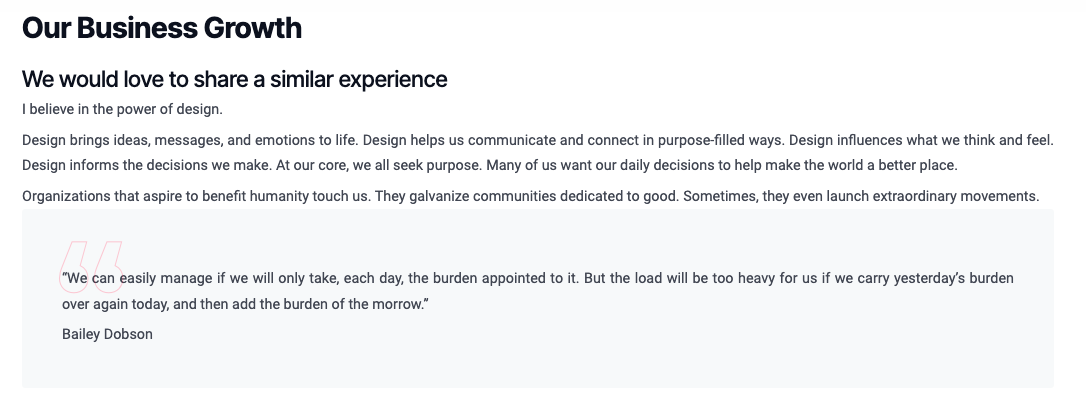
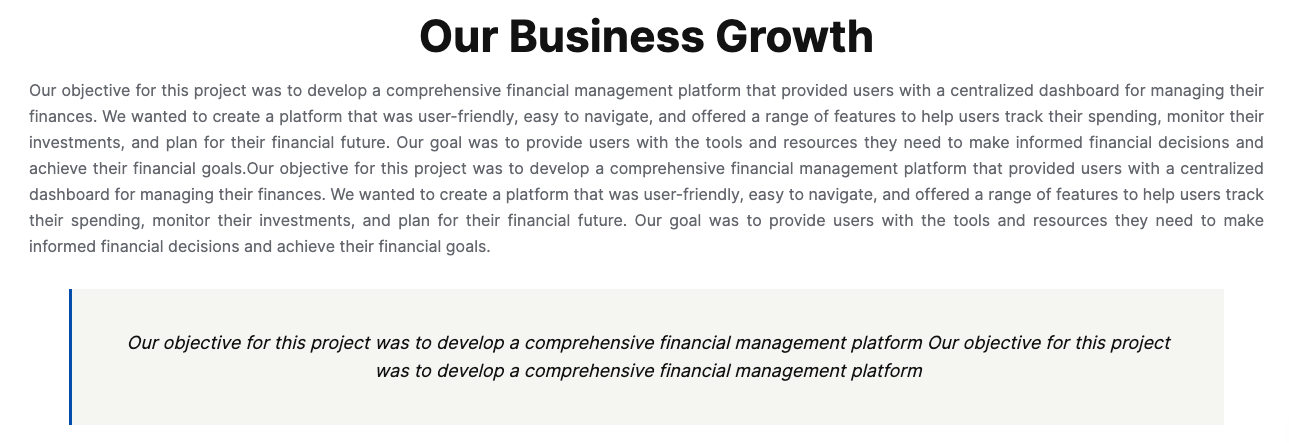
6 dynamic pages updates

diff --git a/public/assets/frontend/css/style.css b/public/assets/frontend/css/style.css
@@ -7256,6 +7256,7 @@ Reduce font and spacing: Start
   .mt-100 {
     margin-top: 60px;
   }
+
   .pt-100 {
     padding-top: 60px;
   }
@@ -7457,4 +7458,60 @@ Reduce font and spacing: End
     top: 1px;
     right: 1px;
     width: 20px;
+}
+
+.custom-description blockquote{
+    margin-top: 30px;
+    font-style: italic;
+    font-size: 18px;
+    font-weight: 400;
+    line-height: 28px;
+    color: #121212;
+    text-align: center;
+    background: var(--surface);
+    padding: 40px;
+    position: relative;
+    z-index: 1;
+    border-left: 3px solid var(--blue);
+}
+
+.custom-description ul,.custom-description ol {
+    margin-top: 30px;
+    padding-left: 0px;
+}
+
+.custom-description ul li, .custom-description ol li{
+    display: flex;
+    align-items: center;
+    gap: 10px;
+    color: var(--secondary);
+    margin-bottom: 8px;
+    font-size: 16px;
+}
+
+.custom-description ul li:before, .custom-description ol li:before{
+    width: 25px;
+    height: 25px;
+    font-size: 14px;
+    border: 1px solid var(--blue);
+    display: inline-flex;
+    align-items: center;
+    justify-content: center;
+    box-shadow: var(--blue);
+    background: var(--blue);
+    border-radius: 50%;
+    color: var(--white);
+    font-family: "Phosphor-Bold" !important;
+    font-weight: 300;
+
+}
+.custom-description ol li:before{
+    content: "\ea00";
+}
+.custom-description ul li:before{
+    content: "\ea30";
+}
+
+.mt-30 {
+    margin-top: 30px;
 }

diff --git a/public/assets/frontend/icons/style.css b/public/assets/frontend/icons/style.css
@@ -74,6 +74,10 @@
   content: "\e90a";
   color: #2868d8;
 }
+.icon-hand-protect-white:before {
+  content: "\e90a";
+  color: #fff;
+}
 .icon-coin-virus:before {
   content: "\e90b";
   color: #2868d8;
@@ -179,6 +183,10 @@
 }
 .icon-wallet:before {
   content: "\e924";
+  color: #2868d8;
+}
+.icon-target:before {
+  content: "\e925";
   color: #2868d8;
 }
 .icon-target:before {

diff --git a/resources/views/frontend/page/includes/flash_card.blade.php b/resources/views/frontend/page/includes/flash_card.blade.php
@@ -1,29 +1,40 @@
-<section class="services-page" style="background-color: #fff;padding: 45px 0 90px;">
+
+<div class="service-block style-about-two pt-60 pb-60 bg-surface style-three">
     <div class="container">
-        <div class="section-title-three text-left">
-            <div class="section-title__tagline-box">
-                <p class="section-title__tagline">{{ $element->first()->subtitle ?? '' }}</p>
-            </div>
-            <h2 class="section-title-three__title">{{ $element->first()->title ?? '' }}</h2>
-        </div>
-        <div class="row">
-            @foreach($element as $index=>$row)
-                <div class="col-xl-4 col-lg-6 col-md-6 d-flex align-items-stretch">
-                    <div class="services-page__single">
-                        <h3 class="services-page__title">
-                            <a>{{$row->list_title ?? ''}}</a>
-                        </h3>
-                        <div class="services-page__icon">
-                            @if($row->image)
-                                <span><img src="{{ asset(imagePath($row->image)) }}"  alt=""></span>
-                            @else
-                                <span class="{{ get_flash_card_icons($index) }}"></span>
-                            @endif
-                        </div>
-                        <p class="services-page__text text-align-justify">{{$row->list_description ?? ''}}</p>
-                    </div>
+        <div class="text text-center">
+            @if ($element->first()->subtitle )
+                <div class="text-sub-heading2 text-white pt-8 pb-8 pl-16 pr-16 bg-blue bora-8 display-inline-block">
+                    {{ $element->first()->subtitle ?? '' }}
                 </div>
-            @endforeach
+            @endif
+
+            <div class="heading3 mt-12 ">{{ $element->first()->title ?? '' }}</div>
+        </div>
+
+        <div class="list-service mt-40 pt-12">
+            <div class="row row-gap-40">
+                @foreach($element as $index=>$row)
+                    <div class="col-12 col-xl-4 col-lg-6 col-md-6 col-sm-6">
+                        <div class="service-item hover-box-shadow pl-32 pr-32 pt-40 pb-40 bora-8 bg-white">
+                            <a class="service-item-main flex-column gap-16">
+                                <div class="heading flex-item-center gap-16">
+                                    @if($row->image)
+                                        <span><img src="{{ asset(imagePath($row->image)) }}"  style="height: 65px;width: 65px;object-fit: cover;" alt=""></span>
+                                    @else
+                                        <i class="{{ get_flash_card_icons($index) }} icon-gradient fs-60"></i>
+                                    @endif
+
+                                    <div class="heading6 hover-text-blue">{{$row->list_title ?? ''}}</div>
+                                </div>
+                                <div class="body3 text-secondary text-align-justify">
+                                    {{$row->list_description ?? ''}}
+                                </div>
+                            </a>
+                        </div>
+                    </div>
+                @endforeach
+
+            </div>
         </div>
     </div>
-</section>
+</div>

diff --git a/app/Services/PageSectionElementsService.php b/app/Services/PageSectionElementsService.php
@@ -53,7 +53,7 @@ class PageSectionElementsService {
                 $subheading  =  array_key_exists($index, $request->input('subtitle')) ? $request->input('subtitle')[$index] : null;
 
                 if ($request->file('image_input') && array_key_exists($index,$request->file('image_input'))){
-                    $image_name  = $this->updateImage( $request->file('image_input')[$index],null,'45','45');
+                    $image_name  = $this->updateImage( $request->file('image_input')[$index],null,'70','70');
                     $request->request->add(['image_'.$index => $image_name]);
                     if ($section && $section->image){
                         $this->deleteImage($section->image);
@@ -69,7 +69,7 @@ class PageSectionElementsService {
                         'title'               => $heading,
                         'subtitle'            => $subheading,
                         'list_title'          => $title,
-                        'image'               => $request['image_'.$index] ?? $section->image,
+                        'image'               => $request['image_'.$index] ?? $section->image ?? null,
                         'list_description'    => $request['list_description'][$index],
                         'status'              => $request['status'],
                         'created_by'          => $request['created_by'],
@@ -202,7 +202,7 @@ class PageSectionElementsService {
                 $subheading  =  array_key_exists($index, $request->input('subtitle')) ? $request->input('subtitle')[$index] : null;
 
                 if ($request->file('image_input') && array_key_exists($index,$request->file('image_input'))){
-                    $image_name  = $this->updateImage( $request->file('image_input')[$index],null,'45','45');
+                    $image_name  = $this->updateImage( $request->file('image_input')[$index],null,'70','70');
                     $request->request->add(['image_'.$index => $image_name]);
                     if ($section && $section->image){
                         $this->deleteImage($section->image);

diff --git a/resources/views/frontend/page/includes/header_description.blade.php b/resources/views/frontend/page/includes/header_description.blade.php
@@ -1,22 +1,17 @@
-<section class="portfolio-details" style="padding: 0px;">
+<div class="content-detail-block pb-100">
     <div class="container">
-        <div class="row">
-            <div class="portfolio-details__bottom">
-                <div class="row">
-                    <div class="col-xl-12 col-lg-12">
-                        <div class="portfolio-details__left">
-                            @if($element->first()->subtitle)
-                                <h3 class="portfolio-details__title">
-                                    {{$element->first()->subtitle ?? '' }}
-                                </h3>
-                            @endif
-                            <div class="portfolio-details__text-1 text-align-justify custom-description">
-                                {!! $element->first()->description ?? '' !!}
-                            </div>
-                        </div>
+        <div class="row row-gap-32">
+            <div class="col-12 col-xl-12">
+                <div class="content-para pr-55">
+                    <div class="text text-center">
+                        <div class="heading3 mt-30 mb-3">{{ $element->first()->subtitle ?? '' }}</div>
+                    </div>
+                    <div class="body3 text-secondary text-align-justify custom-description">
+                        {!! $element->first()->description ?? '' !!}
                     </div>
                 </div>
             </div>
+
         </div>
     </div>
-</section>
+</div>

diff --git a/resources/views/frontend/page/includes/background_image_section.blade.php b/resources/views/frontend/page/includes/background_image_section.blade.php
@@ -1,4 +1,4 @@
-<div class="payment-gateway-one mt-60 bg-surface">
+<div class="payment-gateway-one mt-60 bg-on-surface">
     <div class="bg-img">
         <img class="w-100 h-100 lazy" data-src="{{ asset(imagePath($element->first()->image)) }}" alt="">
     </div>
@@ -10,9 +10,9 @@
                         <div class="text-sub-heading2 text-white pt-8 pb-8 pl-16 pr-16 bg-blue bora-8 display-inline-block">
                             {{ $element->first()->subtitle ?? '' }}
                         </div>
-                        <div class="heading3 mt-12">{{ $element->first()->title ?? '' }}</div>
+                        <div class="heading3 mt-12 text-white ">{{ $element->first()->title ?? '' }}</div>
                     </div>
-                    <div class="body3 mt-2 text-secondary text-align-justify">
+                    <div class="body3 mt-2 text-secondary text-align-justify" style="color:#f6f1f1">
                         {!! $element->first()->description ?? '' !!}
                     </div>
                 </div>

diff --git a/resources/views/frontend/homepage.blade.php b/resources/views/frontend/homepage.blade.php
@@ -87,7 +87,7 @@
                                 </a>
                             </div>
                             <div class="col-12 col-xl-4 col-lg-6 col-md-6 col-sm-6">
-                                <a class="main-item bora-16"> <i class="icon-lamp-gear"></i>
+                                <a class="main-item bora-16"> <i class="icon-hand-protect-white"></i>
                                     <div class="heading7 text-white hover-text-orange">Value</div>
                                     <div class="body3 text-placehover mt-12">
                                         {{ $data['homepage']->value ?? '' }}

diff --git a/app/Helpers/helpers.php b/app/Helpers/helpers.php
@@ -358,13 +358,13 @@ if (!function_exists('get_flash_card_icons')) {
     function get_flash_card_icons($index): string
     {
         if ($index == 0) {
-            $icon = 'icon-icon-start-ups';
+            $icon = 'icon-target';
         } else if ($index == 1) {
-            $icon = 'icon-icon-successful-project';
+            $icon = 'icon-lamp-earth';
         } else if ($index == 2) {
-            $icon = 'icon-icon-years-experience';
+            $icon = 'icon-hand-team';
         } else {
-            $icon = 'icon-star-1';
+            $icon = 'icon-hand-message';
         }
 
         return $icon;
